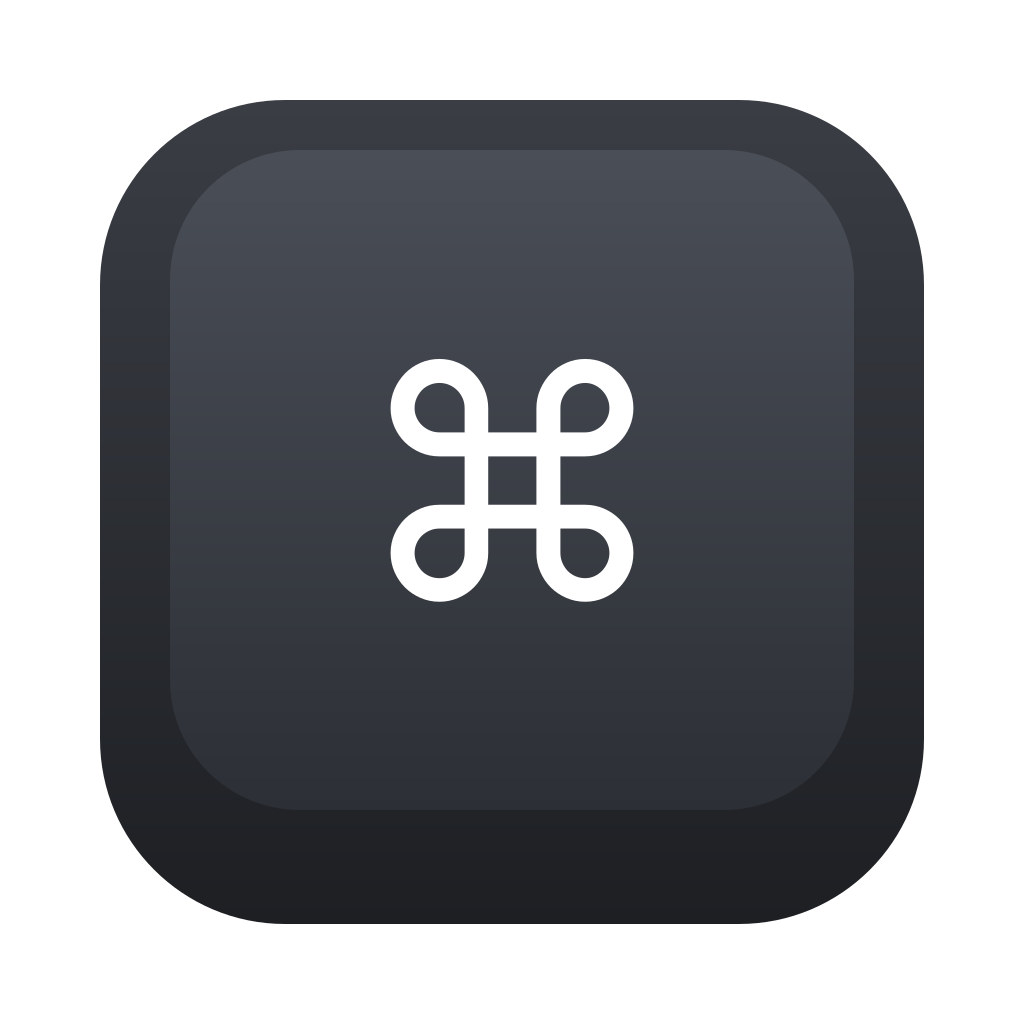
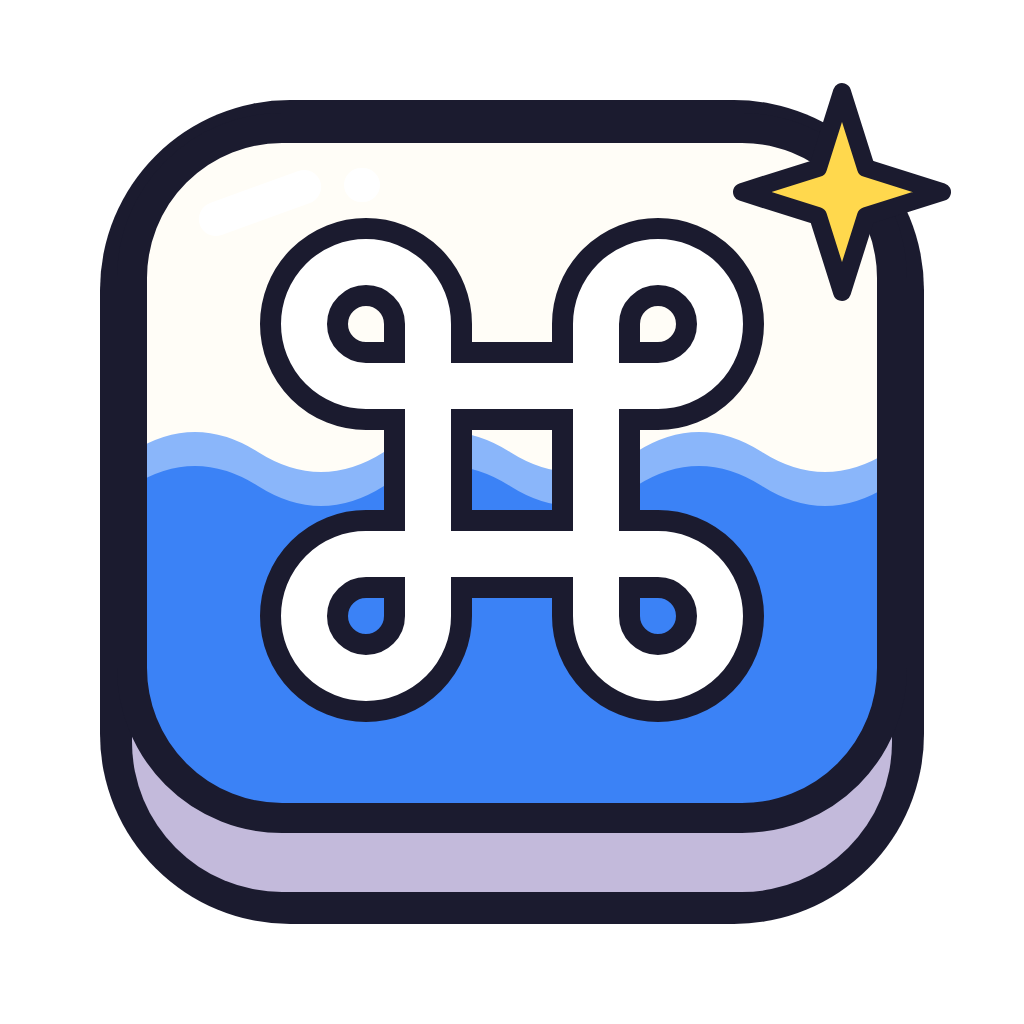
feat: 动漫键帽风格的应用图标与菜单栏模板图标
- 应用图标改为粗描边、液体半满的 ⌘ 键帽
- 菜单栏用 18pt 模板图片代替文字 ⌘，开发版仍显示 dev，无权限显示 !
- 修复 run-dev.sh 在 bash 3.2 下展开空数组报 unbound variable

diff --git a/crates/keylens-macos/src/tray.rs b/crates/keylens-macos/src/tray.rs
@@ -4,11 +4,28 @@ use std::cell::{Cell, RefCell};
 
 use objc2::rc::Retained;
 use objc2::runtime::{AnyObject, NSObject};
-use objc2::{DefinedClass, MainThreadMarker, MainThreadOnly, define_class, msg_send, sel};
-use objc2_app_kit::{NSMenu, NSMenuItem, NSStatusBar, NSStatusItem, NSVariableStatusItemLength};
-use objc2_foundation::NSString;
+use objc2::{
+    AnyThread, DefinedClass, MainThreadMarker, MainThreadOnly, define_class, msg_send, sel,
+};
+use objc2_app_kit::{
+    NSCellImagePosition, NSImage, NSMenu, NSMenuItem, NSStatusBar, NSStatusItem,
+    NSVariableStatusItemLength,
+};
+use objc2_foundation::{NSData, NSSize, NSString};
 
 pub use keylens_platform::tray::{TrayCommand, TrayHandle, TrayLabels};
+
+/// Menu bar icon, 36×36 px drawn for 18×18 pt (see `assets/tray-icon.svg`). Black plus alpha only:
+/// as a template image macOS tints it to match light and dark menu bars.
+const ICON_PNG: &[u8] = include_bytes!("../../../assets/tray-icon.png");
+
+fn icon_image() -> Option<Retained<NSImage>> {
+    let data = NSData::with_bytes(ICON_PNG);
+    let image = NSImage::initWithData(NSImage::alloc(), &data)?;
+    image.setSize(NSSize::new(18.0, 18.0));
+    image.setTemplate(true);
+    Some(image)
+}
 
 fn tag(command: TrayCommand) -> isize {
     command as isize + 1
@@ -59,6 +76,8 @@ pub struct Tray {
     update_item: Retained<NSMenuItem>,
     quit_item: Retained<NSMenuItem>,
     labels: RefCell<TrayLabels>,
+    /// Whether the button shows `ICON_PNG`; if it failed to load, the button falls back to text.
+    has_image: bool,
     granted: Cell<bool>,
     update_status: RefCell<Option<String>>,
     mtm: MainThreadMarker,
@@ -141,6 +160,11 @@ impl Tray {
         let quit_item = menu_item(mtm, &labels.quit, &target, Some(TrayCommand::Quit));
         menu.addItem(&quit_item);
         item.setMenu(Some(&menu));
+        let image = icon_image();
+        if let (Some(button), Some(image)) = (item.button(mtm), &image) {
+            button.setImage(Some(image));
+            button.setImagePosition(NSCellImagePosition::ImageLeft);
+        }
         let tray = Tray {
             item,
             permission_item,
@@ -152,6 +176,7 @@ impl Tray {
             update_item,
             quit_item,
             labels: RefCell::new(labels),
+            has_image: image.is_some(),
             granted: Cell::new(true),
             update_status: RefCell::new(None),
             mtm,
@@ -179,7 +204,13 @@ impl TrayHandle for Tray {
         let labels = self.labels.borrow();
         if let Some(button) = self.item.button(self.mtm) {
             let mark = if granted { "" } else { "!" };
-            button.setTitle(&NSString::from_str(&format!("{}{mark}", labels.icon)));
+            // The image already draws the ⌘, so only the rest of the text label ("dev") is shown next to it.
+            let text = if self.has_image {
+                labels.icon.trim_start_matches('⌘')
+            } else {
+                &labels.icon
+            };
+            button.setTitle(&NSString::from_str(&format!("{text}{mark}")));
         }
         let title = if granted {
             &labels.permission_ok
